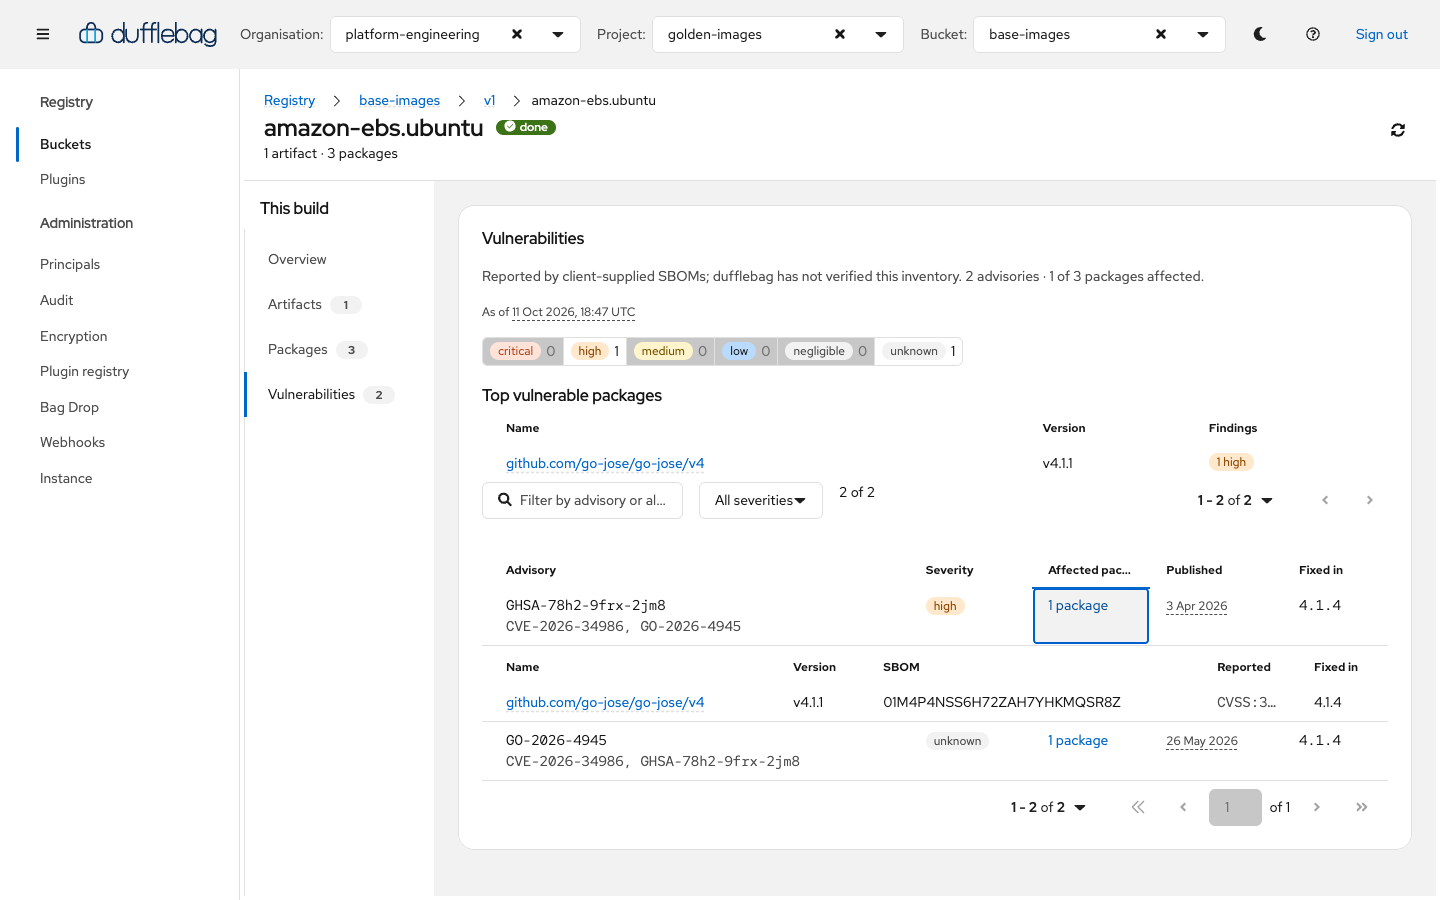
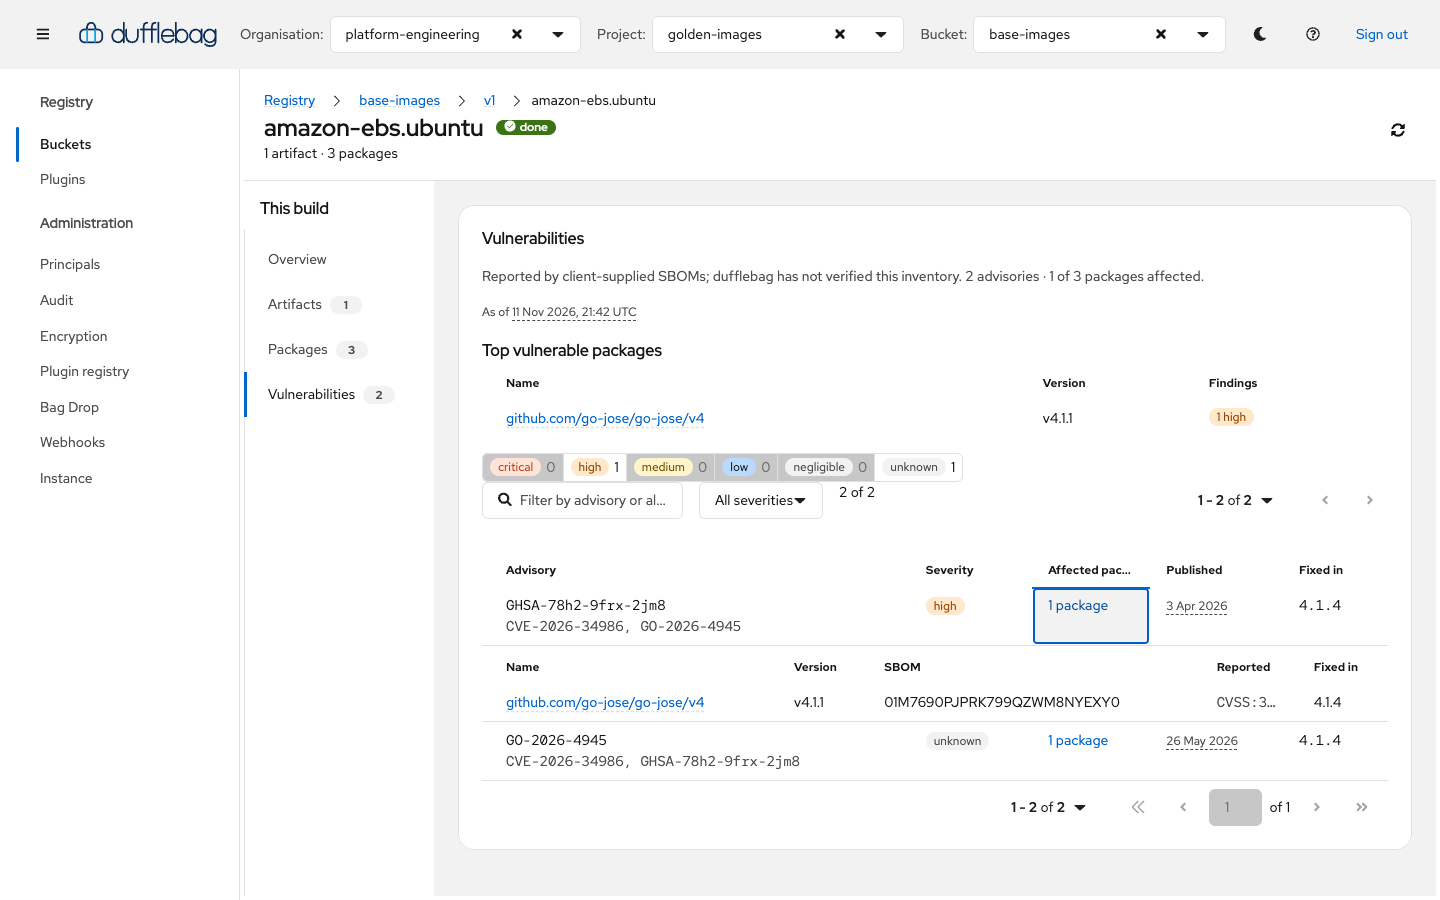
fix(console): make security figures readable by build
On the version Security card, builds that share a platform could not be
told apart: rows truncated the component name that distinguishes them, and
coverage lines were labelled by platform alone. Rows now show the full
component with the severity counts beneath it, and a coverage line names
the build whenever another build shares its platform.

On the build Vulnerabilities facet, Top vulnerable packages sat between the
severity filter and the advisory table, though it does not respond to that
filter. It now follows the summary, so the filters sit directly above the
table they act on.

diff --git a/web/src/components/VersionSecurity.tsx b/web/src/components/VersionSecurity.tsx
@@ -1,6 +1,6 @@
 import {
   Card, CardBody, CardTitle, Content, DataList, DataListCell, DataListItem,
-  DataListItemCells, DataListItemRow, Label, Title, Truncate,
+  DataListItemCells, DataListItemRow, Label, Title,
 } from '@patternfly/react-core'
 import AngleRightIcon from '@patternfly/react-icons/dist/esm/icons/angle-right-icon'
 
@@ -55,6 +55,8 @@ export function VersionSecurityCard({
   // found" and "not looked at", which is the distinction the console exists to
   // preserve.
   const coverageGaps = summary.builds.filter((build) => hasCoverageGap(build.summary?.scan))
+  const sharedPlatform = (platform: string) =>
+    summary.builds.filter((build) => build.platform === platform).length > 1
   // Compared as instants: RFC 3339 strings with and without fractional seconds
   // do not sort lexically.
   const failedRescans = summary.builds.filter((build) => build.latestAttempt?.status === 'failed')
@@ -136,7 +138,9 @@ export function VersionSecurityCard({
         )}
         {coverageGaps.map((build) => (
           <Content key={build.buildID} component="p" style={{ color: 'var(--pf-t--global--text--color--subtle)' }} data-coverage="true">
-            Coverage on {build.platform || build.component || build.buildID}: {coverageSummary(build.summary?.scan).join('; ')}.
+            Coverage on {build.platform && build.component && sharedPlatform(build.platform)
+              ? `${build.platform} (${build.component})`
+              : build.platform || build.component || build.buildID}: {coverageSummary(build.summary?.scan).join('; ')}.
           </Content>
         ))}
 
@@ -164,11 +168,22 @@ export function VersionSecurityCard({
                         <span id={`security-build-${build.buildID}`} style={{ display: 'block', fontWeight: 500 }}>
                           {build.platform}
                         </span>
-                        <code style={{ display: 'block', color: 'var(--pf-t--global--text--color--subtle)' }}>
-                          <Truncate content={build.component || build.buildID} />
+                        <code style={{ display: 'block', color: 'var(--pf-t--global--text--color--subtle)', overflowWrap: 'anywhere' }}>
+                          {build.component || build.buildID}
                         </code>
+                        {buildSummary && buildSummary.counts.length > 0 ? (
+                          <div style={{ marginTop: 8, display: 'flex', gap: 7, flexWrap: 'wrap' }}>
+                            {buildSummary.counts.map(({ severity, count }) => (
+                              <Label key={severity} color={SEVERITY_COLOUR[severity] ?? 'grey'} isCompact variant="outline">
+                                {count} {severity}
+                              </Label>
+                            ))}
+                          </div>
+                        ) : build.inventory === 'unparseable' || !buildSummary ? null : (
+                          <Content component="small" style={{ display: 'block', marginTop: 8 }}>{buildSummary.scanned} scanned</Content>
+                        )}
                       </DataListCell>,
-                      <DataListCell key="severity">
+                      <DataListCell key="severity" isFilled={false}>
                         <Label color={buildSummary?.worst ? SEVERITY_COLOUR[buildSummary.worst] ?? 'grey' : 'grey'} isCompact>
                           {build.inventory === 'unparseable'
                             ? 'SBOM unparseable'
@@ -177,17 +192,6 @@ export function VersionSecurityCard({
                         {build.latestAttempt?.status === 'failed' ? (
                           <Label color="orange" variant="outline" isCompact style={{ marginLeft: 6 }}>rescan failed</Label>
                         ) : null}
-                      </DataListCell>,
-                      <DataListCell key="counts" alignRight>
-                        {buildSummary && buildSummary.counts.length > 0 ? (
-                          buildSummary.counts.map(({ severity, count }) => (
-                            <Label key={severity} color={SEVERITY_COLOUR[severity] ?? 'grey'} isCompact variant="outline">
-                              {count} {severity}
-                            </Label>
-                          ))
-                        ) : build.inventory === 'unparseable' || !buildSummary ? null : (
-                          <Content component="small">{buildSummary.scanned} scanned</Content>
-                        )}
                       </DataListCell>,
                       <DataListCell key="open" isIcon alignRight>
                         <AngleRightIcon aria-hidden />

diff --git a/web/src/screens/Build.tsx b/web/src/screens/Build.tsx
@@ -863,6 +863,9 @@ export function VulnerabilitiesCard({
             findings are from the scan above.
           </Content>
         ) : null}
+        {data.topVulnerablePackages.length > 0 ? (
+          <TopVulnerablePackages rows={data.topVulnerablePackages} packagePath={packagePath} />
+        ) : null}
         <ToggleGroup aria-label="Filter by severity" isCompact style={{ marginTop: 16 }}>
           {[...SEVERITY_ORDER].reverse().map((band) => (
             <ToggleGroupItem
@@ -884,10 +887,6 @@ export function VulnerabilitiesCard({
             />
           ))}
         </ToggleGroup>
-
-        {data.topVulnerablePackages.length > 0 ? (
-          <TopVulnerablePackages rows={data.topVulnerablePackages} packagePath={packagePath} />
-        ) : null}
 
         {data.advisories.length === 0 ? (
           <Content component="p" data-state="zero-findings" style={{ marginTop: 18 }}>

diff --git a/docs-site/operations/builds.md b/docs-site/operations/builds.md
@@ -130,10 +130,10 @@ With a scanner configured:
   vulnerability summary, packages with vulnerabilities, and a flat
   vulnerability list.
 - The build's Vulnerabilities facet deduplicates advisories across packages,
-  provides build-total severity filters, lists the most affected critical and
-  high severity packages, and expands an advisory to show every affected
-  package, its SBOM, the severity the provider reported verbatim, and the
-  fixed version.
+  lists the most affected critical and high severity packages, provides
+  build-total severity filters for the advisory list, and expands an advisory
+  to show every affected package, its SBOM, the severity the provider
+  reported verbatim, and the fixed version.
 - The Packages facet keeps the inventory lean. Severity labels in its Findings
   column open the Vulnerabilities facet pre-filtered to that package.
 
